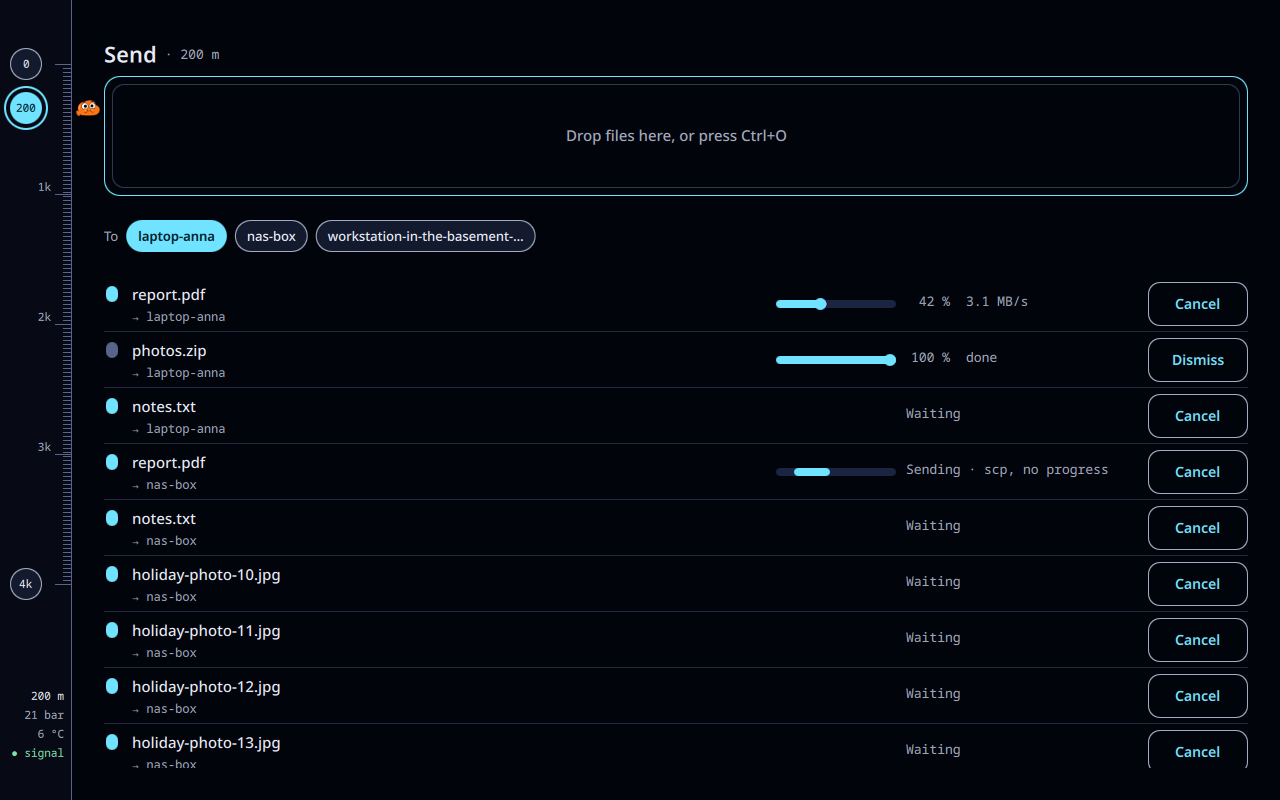
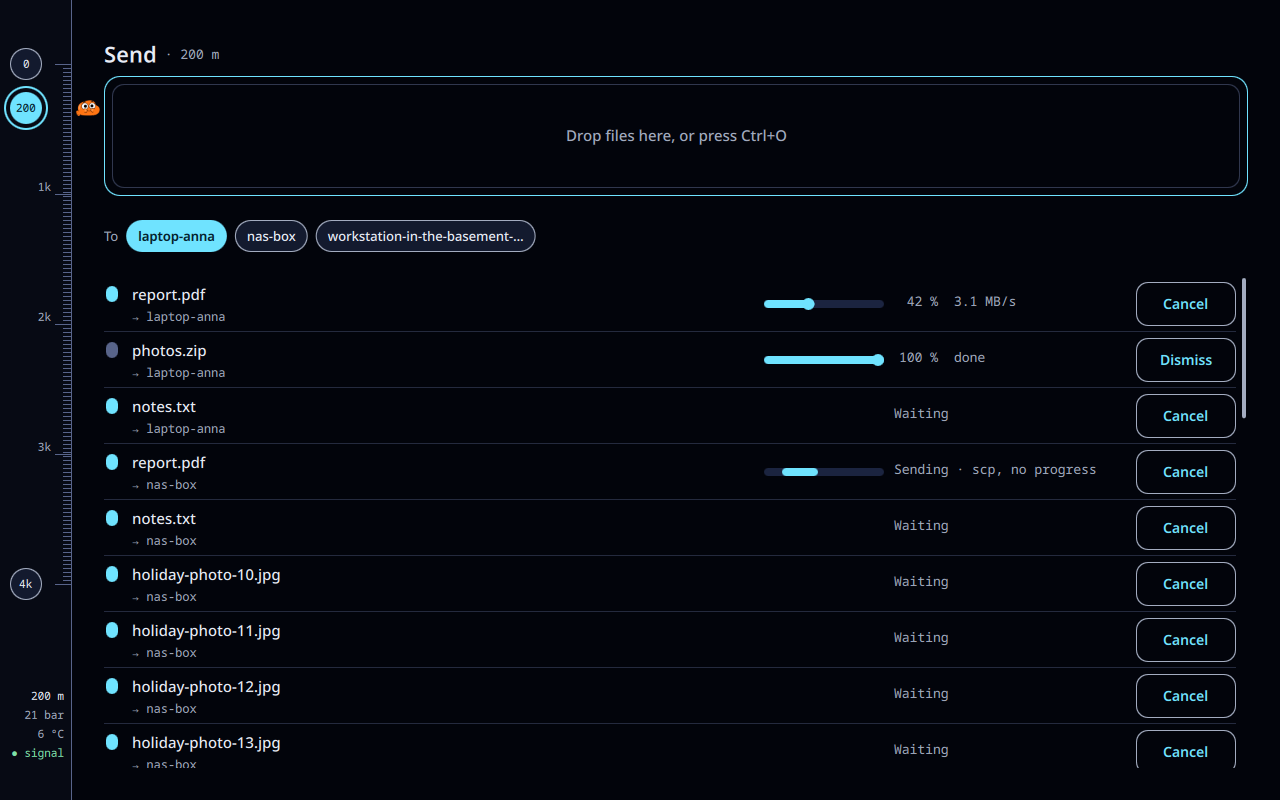
fix(send): scrolling list, keyboard focus ring, hover and pressed states, recaptured (NAK-325)

diff --git a/app/views/SendView.qml b/app/views/SendView.qml
@@ -1,6 +1,7 @@
 pragma ComponentBehavior: Bound
 
 import QtQuick
+import QtQuick.Controls
 import "../components"
 import "../components/SendQueue.js" as Queue
 import "../components/SendTransfer.js" as Transfer
@@ -57,6 +58,8 @@ Item {
     property int failedId: 0
     readonly property var lastFailed: failedId > 0 ? q.history.find(j => j.id === failedId) ?? null : null
     readonly property int runningCount: running.count
+    // The scrolling list under the "To" row (queue, band, history)
+    readonly property Flickable list: scroller
     readonly property var online: (Array.isArray(peers) ? peers : []).filter(p => p.online)
     readonly property var names: online.map(p => p.name)
     readonly property var notice: closeAsked ? {
@@ -344,7 +347,11 @@ Item {
         onDroppedOn: (name, urls) => view.addItems(urls, name)
     }
 
-    Column {
+    // Queue, band and history scroll together; the drop zone and the "To"
+    // row stay in place. Wheel and keys, no animation at rest.
+    Flickable {
+        id: scroller
+
         anchors {
             left: parent.left
             right: parent.right
@@ -353,62 +360,81 @@ Item {
             bottom: parent.bottom
         }
         clip: true
-
-        Repeater {
-            model: liveRows
-
-            SendJobRow {
-                id: liveRow
-
-                required property var model
-
-                width: view.width
-                job: view.rowJob(liveRow.model)
-                rate: view.rates[liveRow.model.jid] ?? ""
-                animate: view.shown
-                onAction: kind => view.act(job, kind)
+        contentWidth: width
+        contentHeight: list.height
+        boundsBehavior: Flickable.StopAtBounds
+        flickableDirection: Flickable.VerticalFlick
+        ScrollBar.vertical: ScrollBar {
+            policy: scroller.contentHeight > scroller.height ? ScrollBar.AlwaysOn : ScrollBar.AlwaysOff
+            contentItem: Rectangle {
+                implicitWidth: 4
+                radius: 2
+                color: Theme.outlineStrong
             }
         }
 
-        Item {
-            visible: view.notice !== null
-            width: 1
-            height: visible ? Theme.spacingS : 0
-        }
+        Column {
+            id: list
 
-        GuideBand {
-            visible: view.notice !== null
-            width: view.width
-            error: view.notice !== null && view.notice === view.failure
-            actionLabel: error && view.lastFailed !== null ? "Retry" : ""
-            message: view.notice ? view.notice.title + ". " + view.notice.advice : ""
-            anchor: view.notice ? Flow.anchor(view.notice) : ""
-            onActed: view.act(view.lastFailed, "retry")
-        }
+            // Room for the scroll indicator on the right
+            width: scroller.width - 12
 
-        Text {
-            visible: historyRows.count > 0
-            height: visible ? view.headerHeight : 0
-            verticalAlignment: Text.AlignVCenter
-            text: "History"
-            color: Theme.surfaceText
-            font.pixelSize: Theme.fontSizeLarge
-            font.weight: Font.DemiBold
-        }
+            Repeater {
+                model: liveRows
 
-        Repeater {
-            model: historyRows
+                SendJobRow {
+                    id: liveRow
 
-            SendJobRow {
-                id: pastRow
+                    required property var model
 
-                required property var model
+                    width: list.width
+                    job: view.rowJob(liveRow.model)
+                    rate: view.rates[liveRow.model.jid] ?? ""
+                    animate: view.shown
+                    onAction: kind => view.act(job, kind)
+                }
+            }
 
-                width: view.width
-                history: true
-                now: view.clock
-                job: view.rowJob(pastRow.model)
-                onAction: kind => view.act(job, kind)
+            Item {
+                visible: view.notice !== null
+                width: 1
+                height: visible ? Theme.spacingS : 0
+            }
+
+            GuideBand {
+                visible: view.notice !== null
+                width: list.width
+                error: view.notice !== null && view.notice === view.failure
+                actionLabel: error && view.lastFailed !== null ? "Retry" : ""
+                message: view.notice ? view.notice.title + ". " + view.notice.advice : ""
+                anchor: view.notice ? Flow.anchor(view.notice) : ""
+                onActed: view.act(view.lastFailed, "retry")
+            }
+
+            Text {
+                visible: historyRows.count > 0
+                height: visible ? view.headerHeight : 0
+                verticalAlignment: Text.AlignVCenter
+                text: "History"
+                color: Theme.surfaceText
+                font.pixelSize: Theme.fontSizeLarge
+                font.weight: Font.DemiBold
+            }
+
+            Repeater {
+                model: historyRows
+
+                SendJobRow {
+                    id: pastRow
+
+                    required property var model
+
+                    width: list.width
+                    history: true
+                    now: view.clock
+                    job: view.rowJob(pastRow.model)
+                    onAction: kind => view.act(job, kind)
+                }
             }
         }
     }

diff --git a/app/components/DevicePicker.qml b/app/components/DevicePicker.qml
@@ -36,13 +36,33 @@ Row {
             height: 32
             width: label.implicitWidth + 24
             radius: 16
-            color: on ? Theme.primary : Theme.surfaceContainerHigh
+            // Set by the Tab key only, so a click never draws the ring
+            property bool focusByKey: false
+
+            color: on ? (press.pressed ? Qt.darker(Theme.primary, 1.15) : Theme.primary) : press.pressed ? Qt.rgba(Theme.primary.r, Theme.primary.g, Theme.primary.b, 0.2) : hover.hovered ? Theme.surfaceContainerHighest : Theme.surfaceContainerHigh
             border.width: on ? 0 : 1
             border.color: Theme.outlineStrong
             activeFocusOnTab: true
             Accessible.role: Accessible.CheckBox
             Accessible.name: modelData
             Accessible.checked: on
+            onActiveFocusChanged: if (!activeFocus)
+                focusByKey = false
+            Keys.onPressed: event => {
+                focusByKey = true;
+                if (event.key === Qt.Key_Return || event.key === Qt.Key_Space) {
+                    picker.toggled(chip.modelData);
+                    event.accepted = true;
+                }
+            }
+
+            FocusRing {
+                target: chip
+            }
+
+            HoverHandler {
+                id: hover
+            }
 
             Text {
                 id: label
@@ -56,6 +76,8 @@ Row {
             }
 
             TapHandler {
+                id: press
+
                 onTapped: picker.toggled(chip.modelData)
             }
 

diff --git a/app/components/DropZone.qml b/app/components/DropZone.qml
@@ -15,6 +15,19 @@ Rectangle {
     border.width: 1
     border.color: Theme.primary
     activeFocusOnTab: true
+    // Set by the key handler only, so a click never draws the ring
+    property bool focusByKey: false
+    // Scenes can show the drag-over look without a real drag
+    property bool dragOver: drop.containsDrag
+    onActiveFocusChanged: if (!activeFocus)
+        focusByKey = false
+    Keys.onPressed: event => {
+        focusByKey = true;
+        if (event.key === Qt.Key_Return || event.key === Qt.Key_Space) {
+            zone.pickRequested();
+            event.accepted = true;
+        }
+    }
     Accessible.role: Accessible.Button
     Accessible.name: label.text
 
@@ -24,7 +37,7 @@ Rectangle {
             margins: 8
         }
         radius: Theme.cornerRadius
-        color: drop.containsDrag ? Qt.rgba(Theme.primary.r, Theme.primary.g, Theme.primary.b, 0.13) : "transparent"
+        color: tap.pressed ? Qt.rgba(Theme.primary.r, Theme.primary.g, Theme.primary.b, 0.2) : zone.dragOver ? Qt.rgba(Theme.primary.r, Theme.primary.g, Theme.primary.b, 0.13) : hover.hovered ? Theme.surfaceContainerHigh : "transparent"
         border.width: 1
         border.color: Qt.rgba(Theme.outline.r, Theme.outline.g, Theme.outline.b, 0.53)
     }
@@ -49,7 +62,17 @@ Rectangle {
         }
     }
 
+    FocusRing {
+        target: zone
+    }
+
+    HoverHandler {
+        id: hover
+    }
+
     TapHandler {
+        id: tap
+
         onTapped: zone.pickRequested()
     }
 }

diff --git a/app/components/SendJobRow.qml b/app/components/SendJobRow.qml
@@ -165,12 +165,31 @@ Item {
         width: 100
         height: 44
         radius: Theme.cornerRadius
-        color: "transparent"
+        color: tap.pressed ? Qt.rgba(Theme.primary.r, Theme.primary.g, Theme.primary.b, 0.2) : hover.hovered ? Theme.surfaceContainerHigh : "transparent"
         border.width: 1
         border.color: Theme.outlineStrong
         activeFocusOnTab: true
+        // Set by the key handler only, so a click never draws the ring
+        property bool focusByKey: false
+        onActiveFocusChanged: if (!activeFocus)
+            focusByKey = false
+        Keys.onPressed: event => {
+            focusByKey = true;
+            if (event.key === Qt.Key_Return || event.key === Qt.Key_Space) {
+                row.action(row.actionLabel.toLowerCase());
+                event.accepted = true;
+            }
+        }
         Accessible.role: Accessible.Button
         Accessible.name: row.actionLabel
+
+        FocusRing {
+            target: parent
+        }
+
+        HoverHandler {
+            id: hover
+        }
 
         Text {
             anchors.centerIn: parent
@@ -181,6 +200,8 @@ Item {
         }
 
         TapHandler {
+            id: tap
+
             onTapped: row.action(row.actionLabel.toLowerCase())
         }
     }

diff --git a/tests/qml/SendViewMore.test.qml b/tests/qml/SendViewMore.test.qml
@@ -153,6 +153,7 @@ Item {
 
     function closeIt() {
         check("abyss send <device> <file> queues the file", frame.sendView.q.jobs.length === 1 && frame.sendView.chosen.join() === "slow");
+        check("a queued row gives the scrolling list its height", frame.sendView.list.contentHeight > 0, frame.sendView.list.contentHeight);
         check("no false duplicate notice", frame.sendView.failure === null);
         frame.show("map");
         check("closing from another station brings Send back", frame.confirmClose() === false && frame.station === "send");

diff --git a/app/components/FocusRing.qml b/app/components/FocusRing.qml
@@ -1,0 +1,18 @@
+import QtQuick
+import "."
+
+// The keyboard focus ring of the Send view controls: 2 px `primary`, 2 px
+// outside the item. Shown only for keyboard focus, never after a click.
+Rectangle {
+    required property var target
+
+    anchors {
+        fill: parent
+        margins: -4
+    }
+    radius: target.radius + 4
+    color: "transparent"
+    border.width: 2
+    border.color: Theme.primary
+    visible: target.activeFocus && target.focusByKey
+}

diff --git a/CHANGELOG.md b/CHANGELOG.md
@@ -11,6 +11,7 @@ The format follows [Keep a Changelog](https://keepachangelog.com/en/1.1.0/) and 
 
 - Send view: a done row waiting for *Dismiss* no longer counts as a live job, so the same file can be sent again and done rows never fill the cap; the scp label is shown in full; the history ages refresh without a timer; the Send bench scene takes its mode from `BENCH_MODE` instead of a tracked state file.
 - Send view (review of NAK-325): transfers survive every progress line (stable process delegates, rsync launched once per job), closing the window during a transfer asks once to finish or cancel (cancel stops every job and probe), `abyss send <device> [files]` hands its files to the view (capped), a file dropped on a device chip goes to that device only, rsync is probed once per device, the view ignores meter lines while hidden, and the window keeps the Send view alive after the first visit. `app/components/CliRunner.qml` is a symlink to the shared one. More QML cases: Ctrl+V of a folder, `wl-paste` missing, Ctrl+V inside a text field, drop on a device.
+- Send view (design QA): queue, band and history scroll together under the drop zone and the To row (wheel and keys, thin indicator); chips, row buttons and the drop zone show a 2 px keyboard focus ring, hover and pressed fills, and act on Return or Space.
 
 ### Added
 
